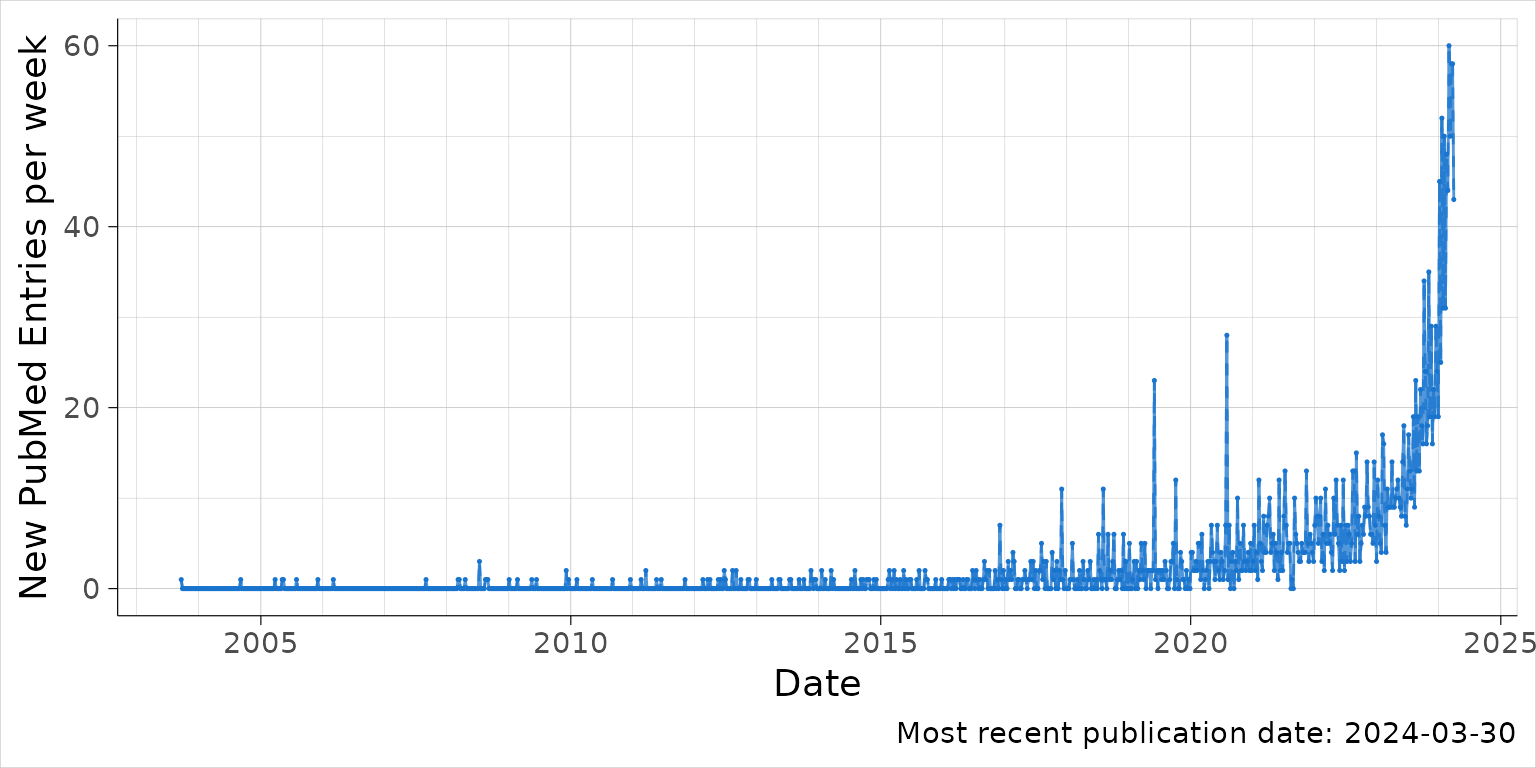
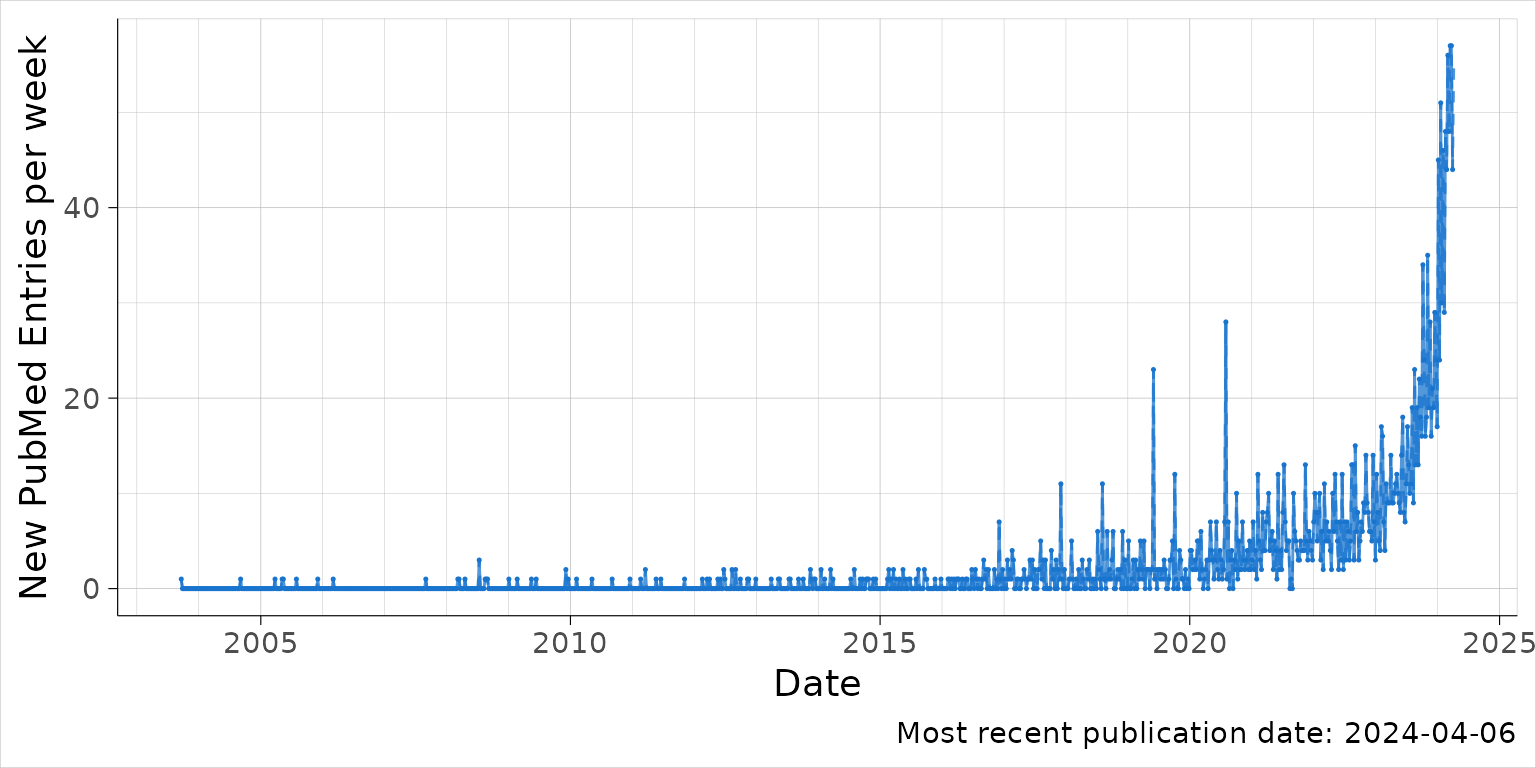
Deploying to gh-pages from @ explodecomputer/PubmedPlot@59f68a979db9b8da6097854e7cc271a99063c6fb 🚀

diff --git a/articles/mr.html b/articles/mr.html
@@ -92,7 +92,7 @@
 <span><span class="co">#&gt; Warning: There was 1 warning in `dplyr::mutate()`.</span></span>
 <span><span class="co">#&gt; <span style="color: #00BBBB;">ℹ</span> In argument: `pub_date = lubridate::ymd(pub_date)`.</span></span>
 <span><span class="co">#&gt; Caused by warning:</span></span>
-<span><span class="co">#&gt; <span style="color: #BBBB00;">!</span>  3593 failed to parse.</span></span>
+<span><span class="co">#&gt; <span style="color: #BBBB00;">!</span>  3644 failed to parse.</span></span>
 <span><span class="va">res</span> <span class="op">&lt;-</span> <span class="va">a</span><span class="op">$</span><span class="va">res</span></span>
 <span><span class="va">cap_verb</span><span class="op">=</span><span class="st">"Data from PubMed search for Mendelian randomi[s/z]ation, title only. "</span></span>
 <span><span class="va">xlab</span><span class="op">=</span><span class="st">"Date"</span></span>
